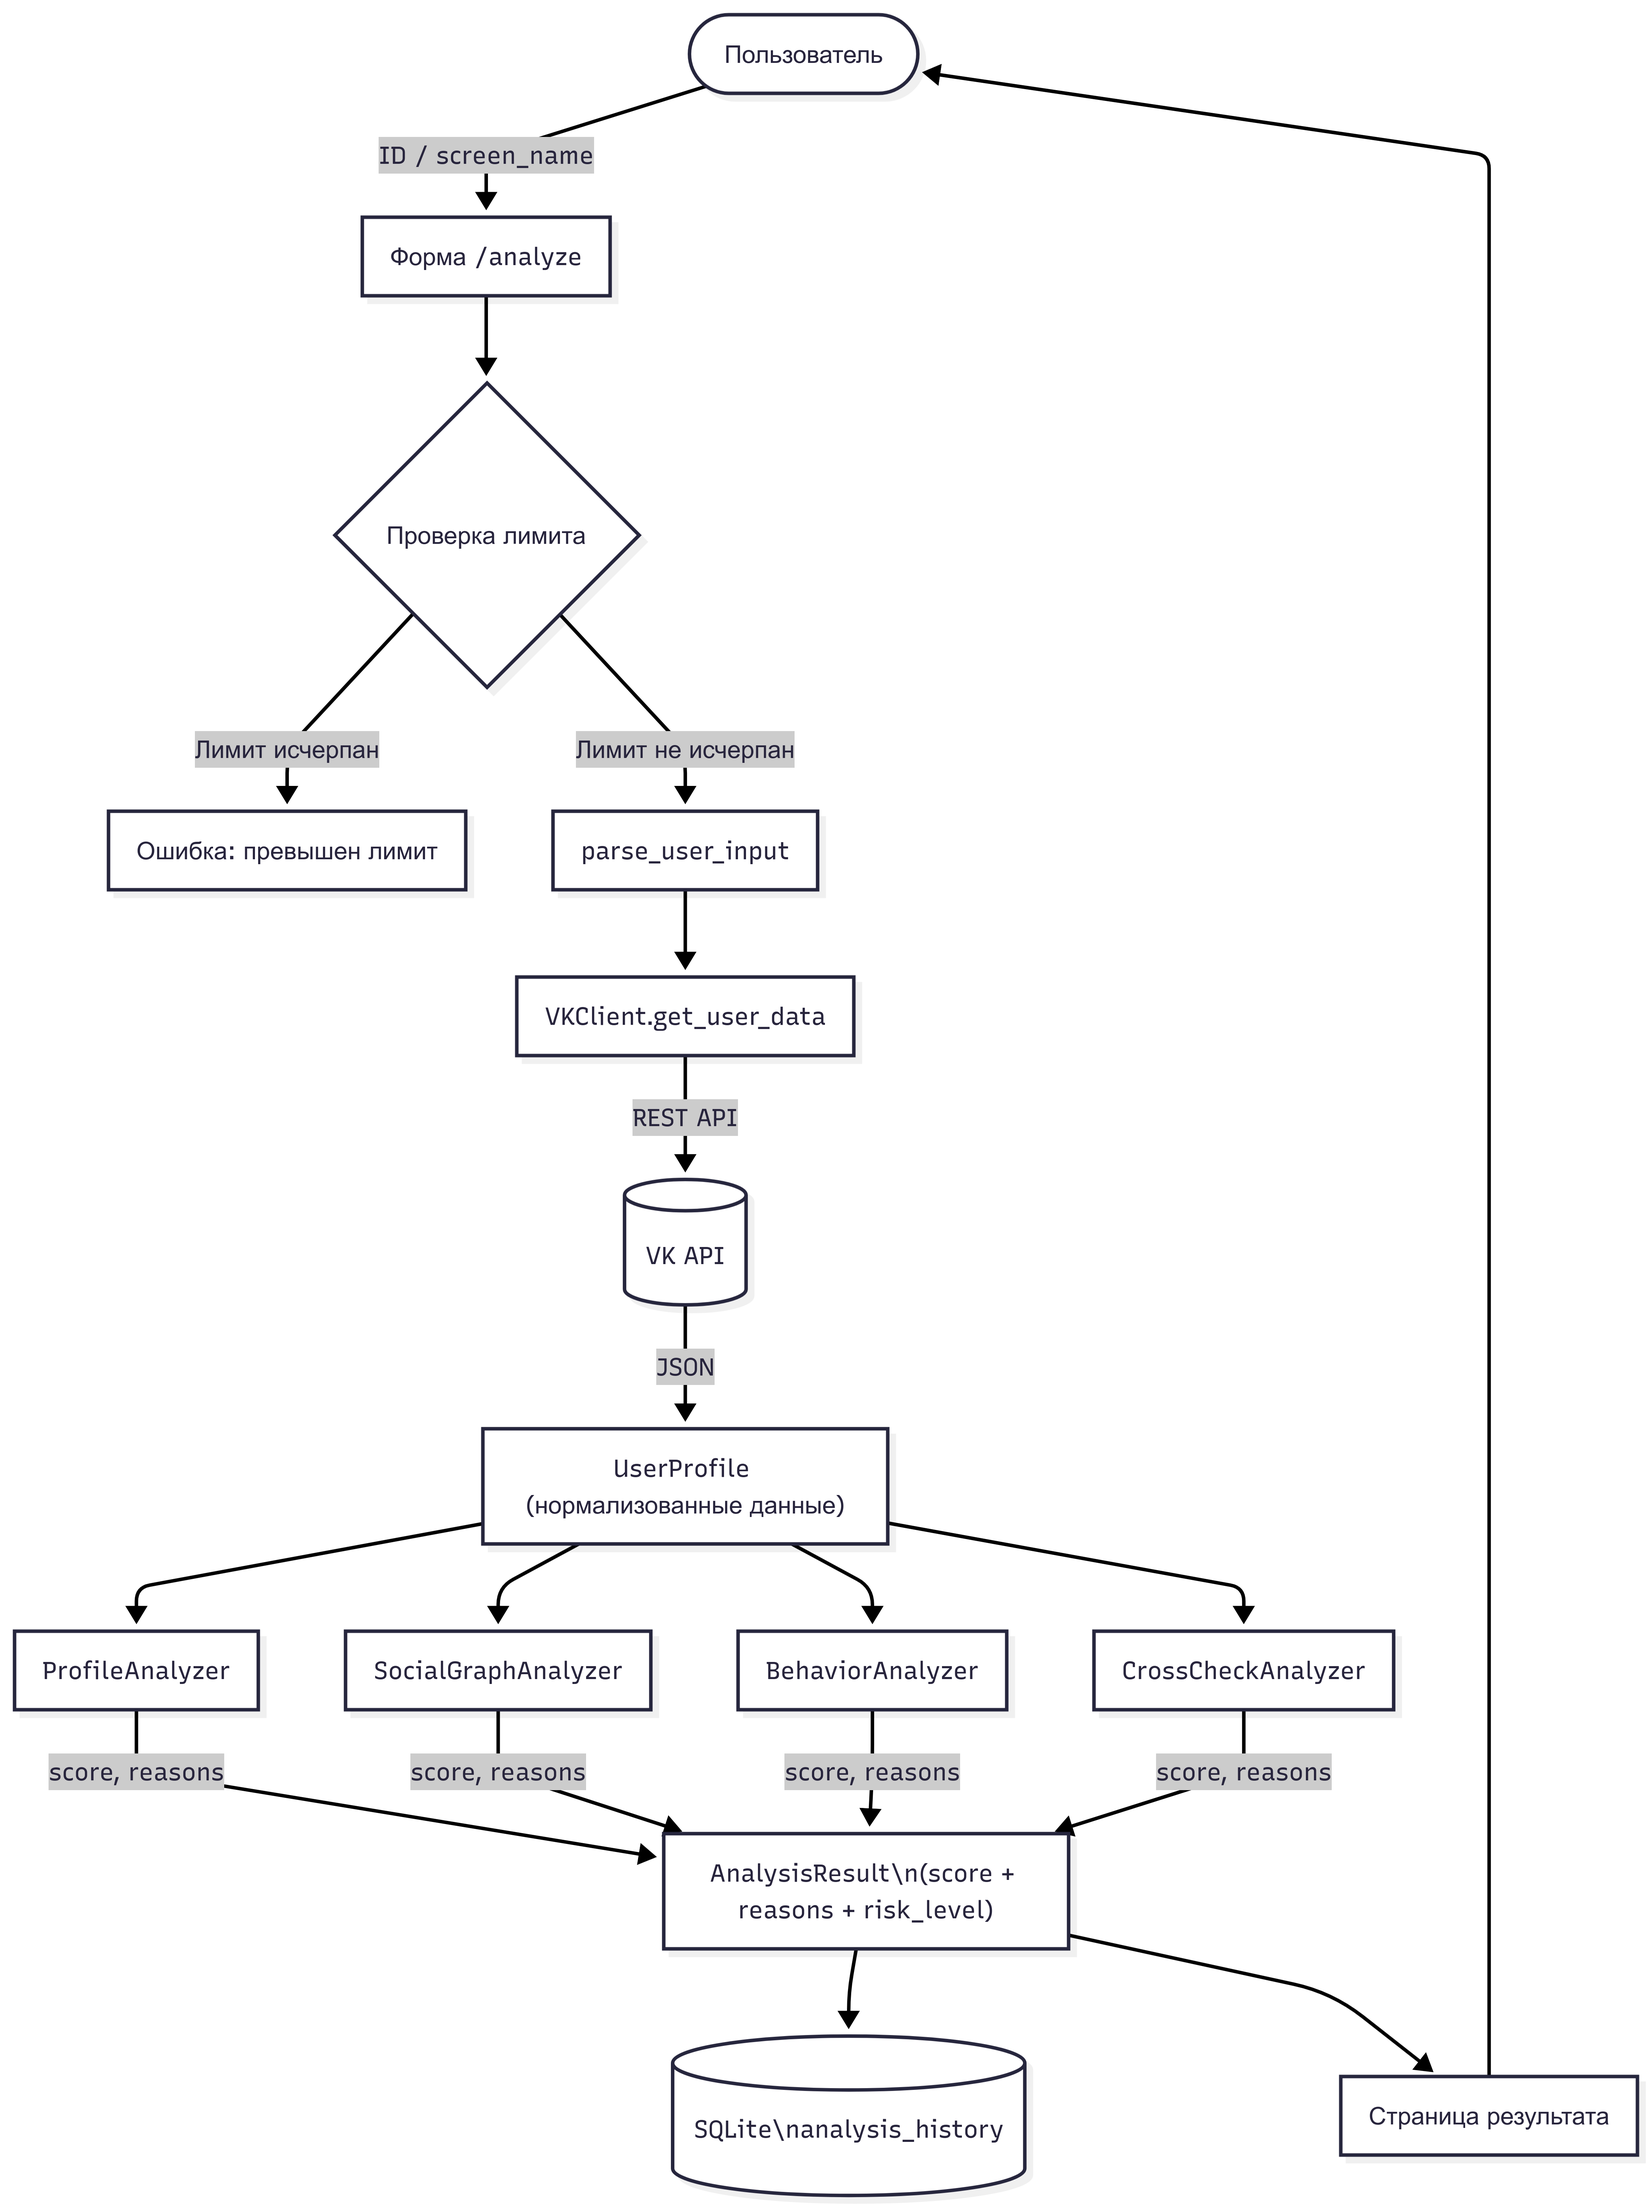
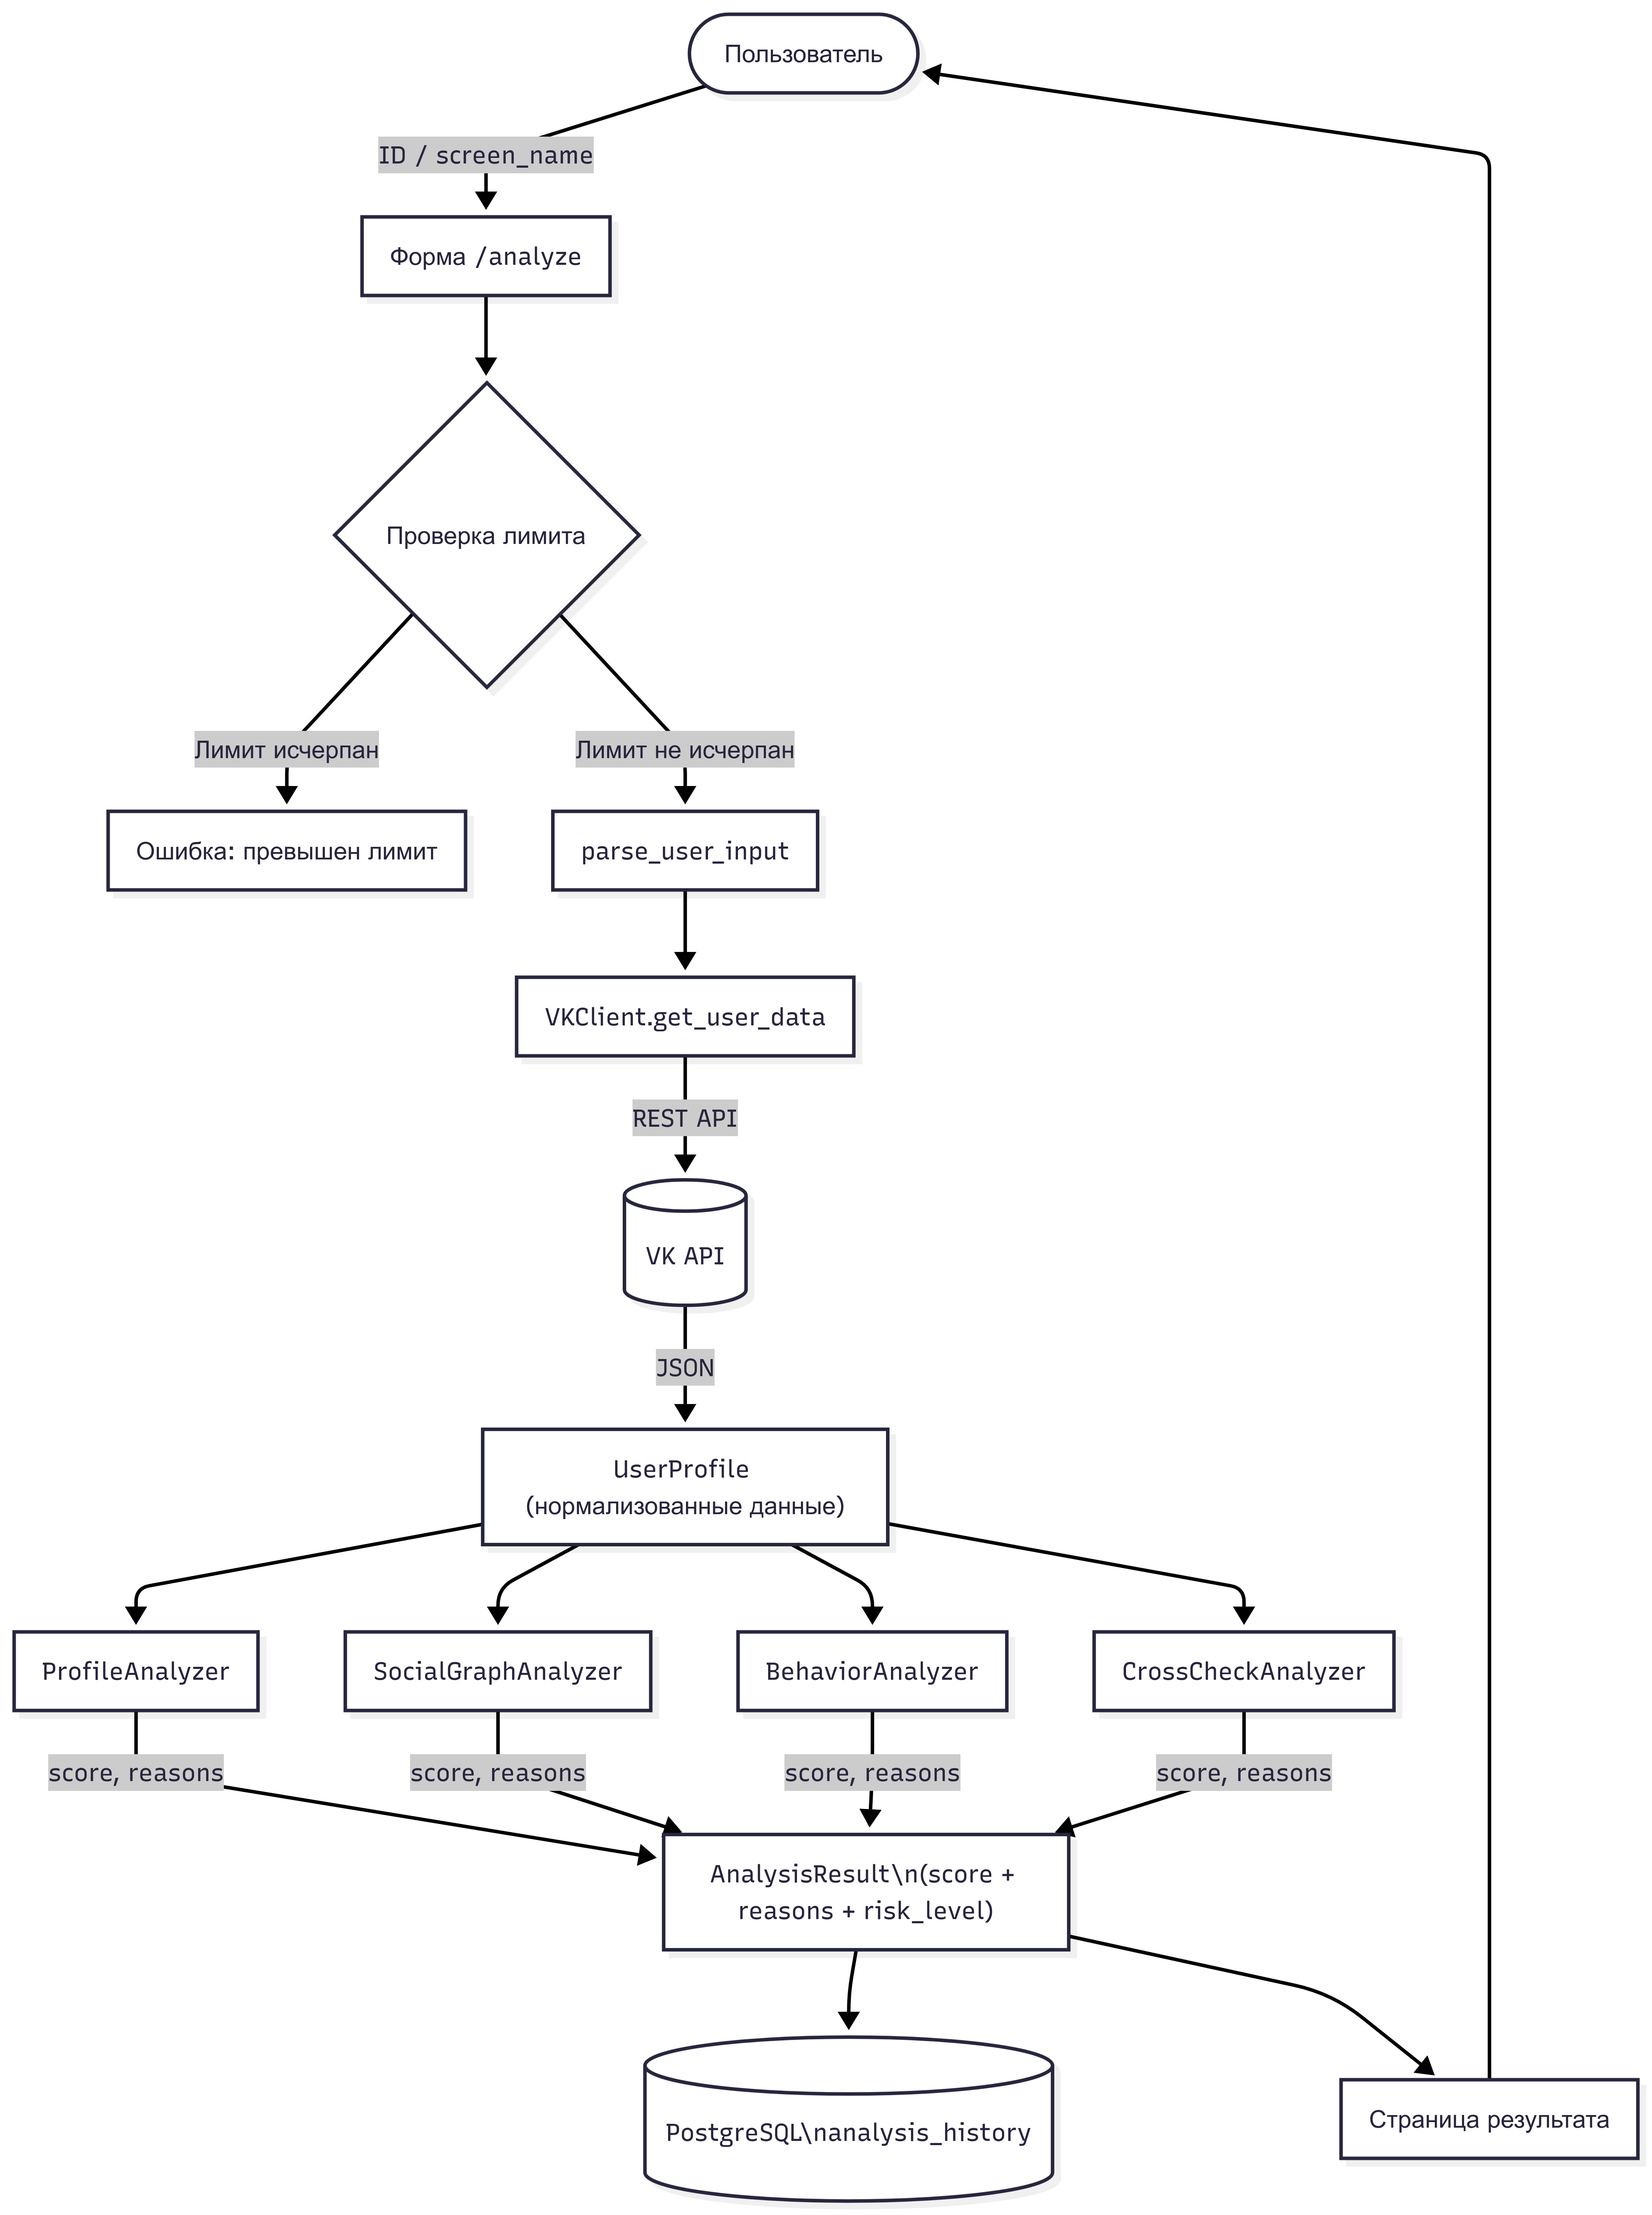
CHANGE DOCS

diff --git a/docs/SYSTEM_SPECS.md b/docs/SYSTEM_SPECS.md
@@ -40,8 +40,6 @@
 
 
 
-![DFD диаграмма](pics/flowchart.png)
-
 ## Функциональная схема ПО (DFD) Диаграмма потоков данных для основного сценария — **анализ профиля пользователя**.
 
 ![DFD диаграмма](pics/flowchart.png)

diff --git a/docs/api/README.md b/docs/api/README.md
@@ -9,7 +9,7 @@
 ## API документация
 
 Полное описание API доступно в формате OpenAPI:  
-[📄 Открыть документацию](https://delightful-baklava-c83b6c.netlify.app/)
+[swagger.yaml](swagger.yaml)
 ---
 
 ## Основные endpoints
